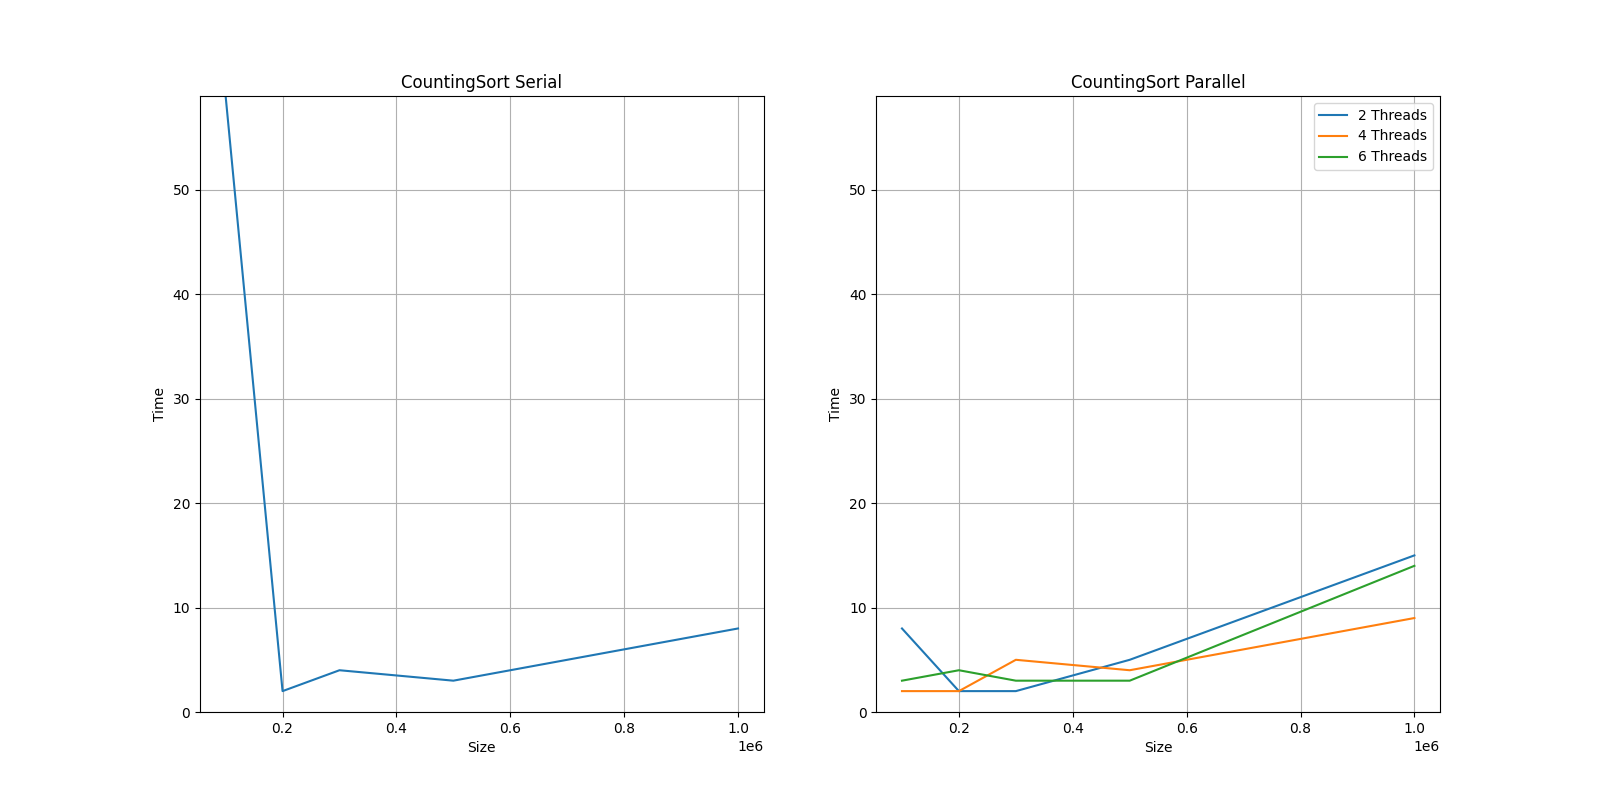
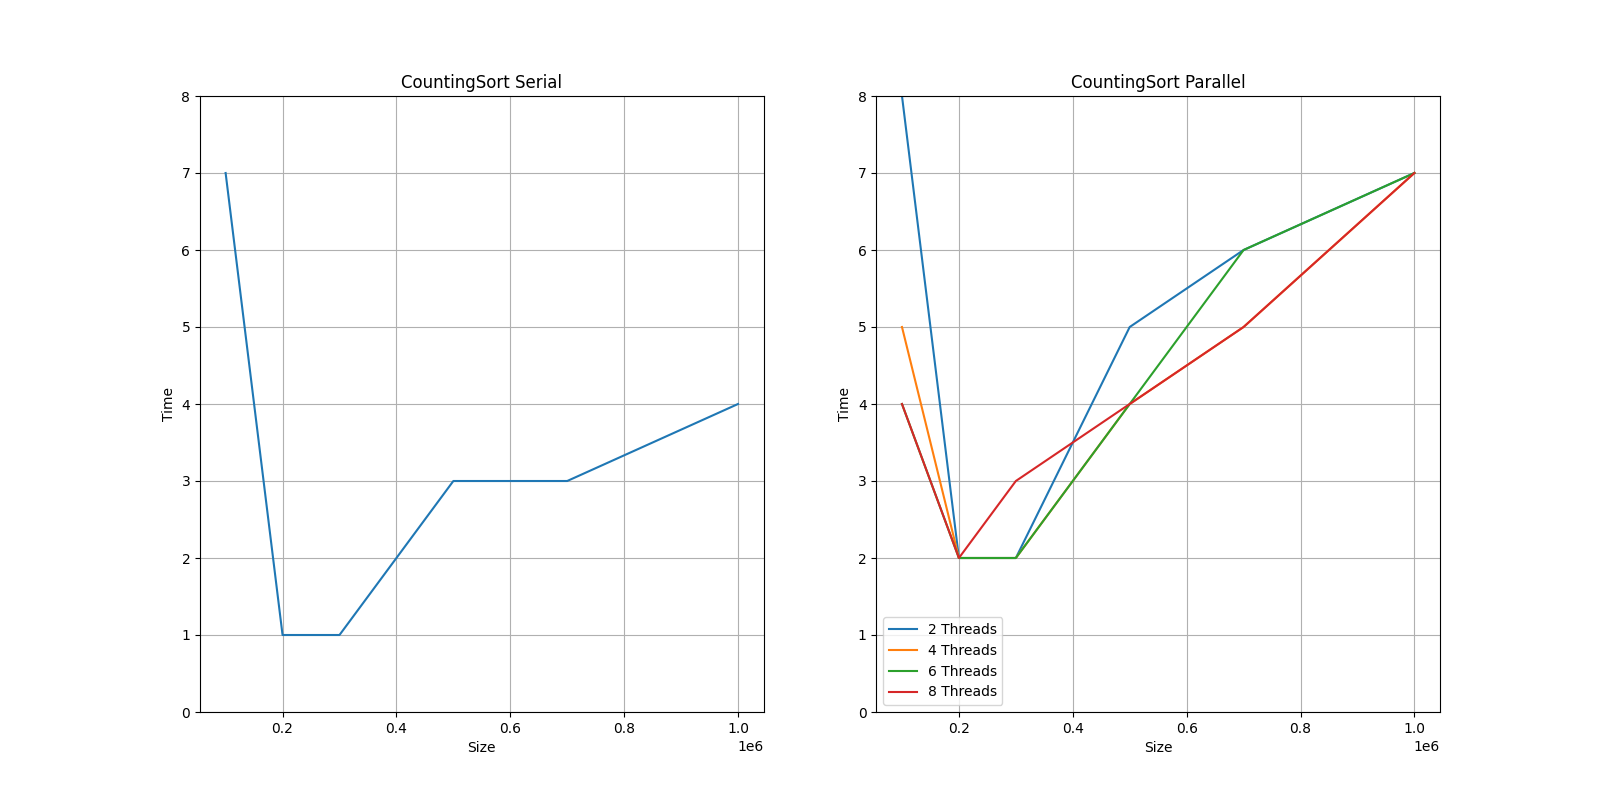
melhorando revisão dos dados

diff --git a/Main.java b/Main.java
@@ -10,24 +10,26 @@ public class Main {
      */
 
     // Tamanho de das amostras de cada rodada
-    static int[] dataAmount = { 100000, 200000, 300000, 500000 ,1000000};
-    // static int[] dataAmount = { 1000, 2000, 3000, 5000 ,10000};
+    static int[] dataAmount = { 100_000, 200_000, 300_000, 500_000, 700_000 ,1_000_000};
 
     // Quantidade de threads utilizadas
-    static int[] threadAmount = { 2, 4, 6 };
+    static int[] threadAmount = { 2, 4, 6, 8 };
 
     // quantas veze ele irá rodar para pegar a media do tempo de ordenação
     static int turns = 1;
 
     // mude aqui entre python e python3 (dependendo de sua instalação)
-    static String python = "python3";
+    static String python = "python";
 
     public static void main(String[] args) {
-        
-        // BubbleSort.getData(dataAmount, threadAmount, turns);
+        long start =  System.currentTimeMillis();
+
         QuickSort.getData(dataAmount, threadAmount, turns);
         MergeSort.getData(dataAmount, threadAmount, turns);
         CountingSort.getData(dataAmount, threadAmount, turns);
+        BubbleSort.getData(dataAmount, threadAmount, turns);
+
+        System.out.println("Tempo total de teste dos algoritmos: "+ (System.currentTimeMillis() - start)/1000+ " segundos.");
 
         try {
             Runtime.getRuntime().exec(python + " chart.py");

diff --git a/chart.py b/chart.py
@@ -35,7 +35,7 @@ def plot(sort):
     # plt.show()
 
     
-# plot("BubbleSort")
+plot("BubbleSort")
 plot("CountingSort")
 plot("MergeSort")
 plot("QuickSort")
